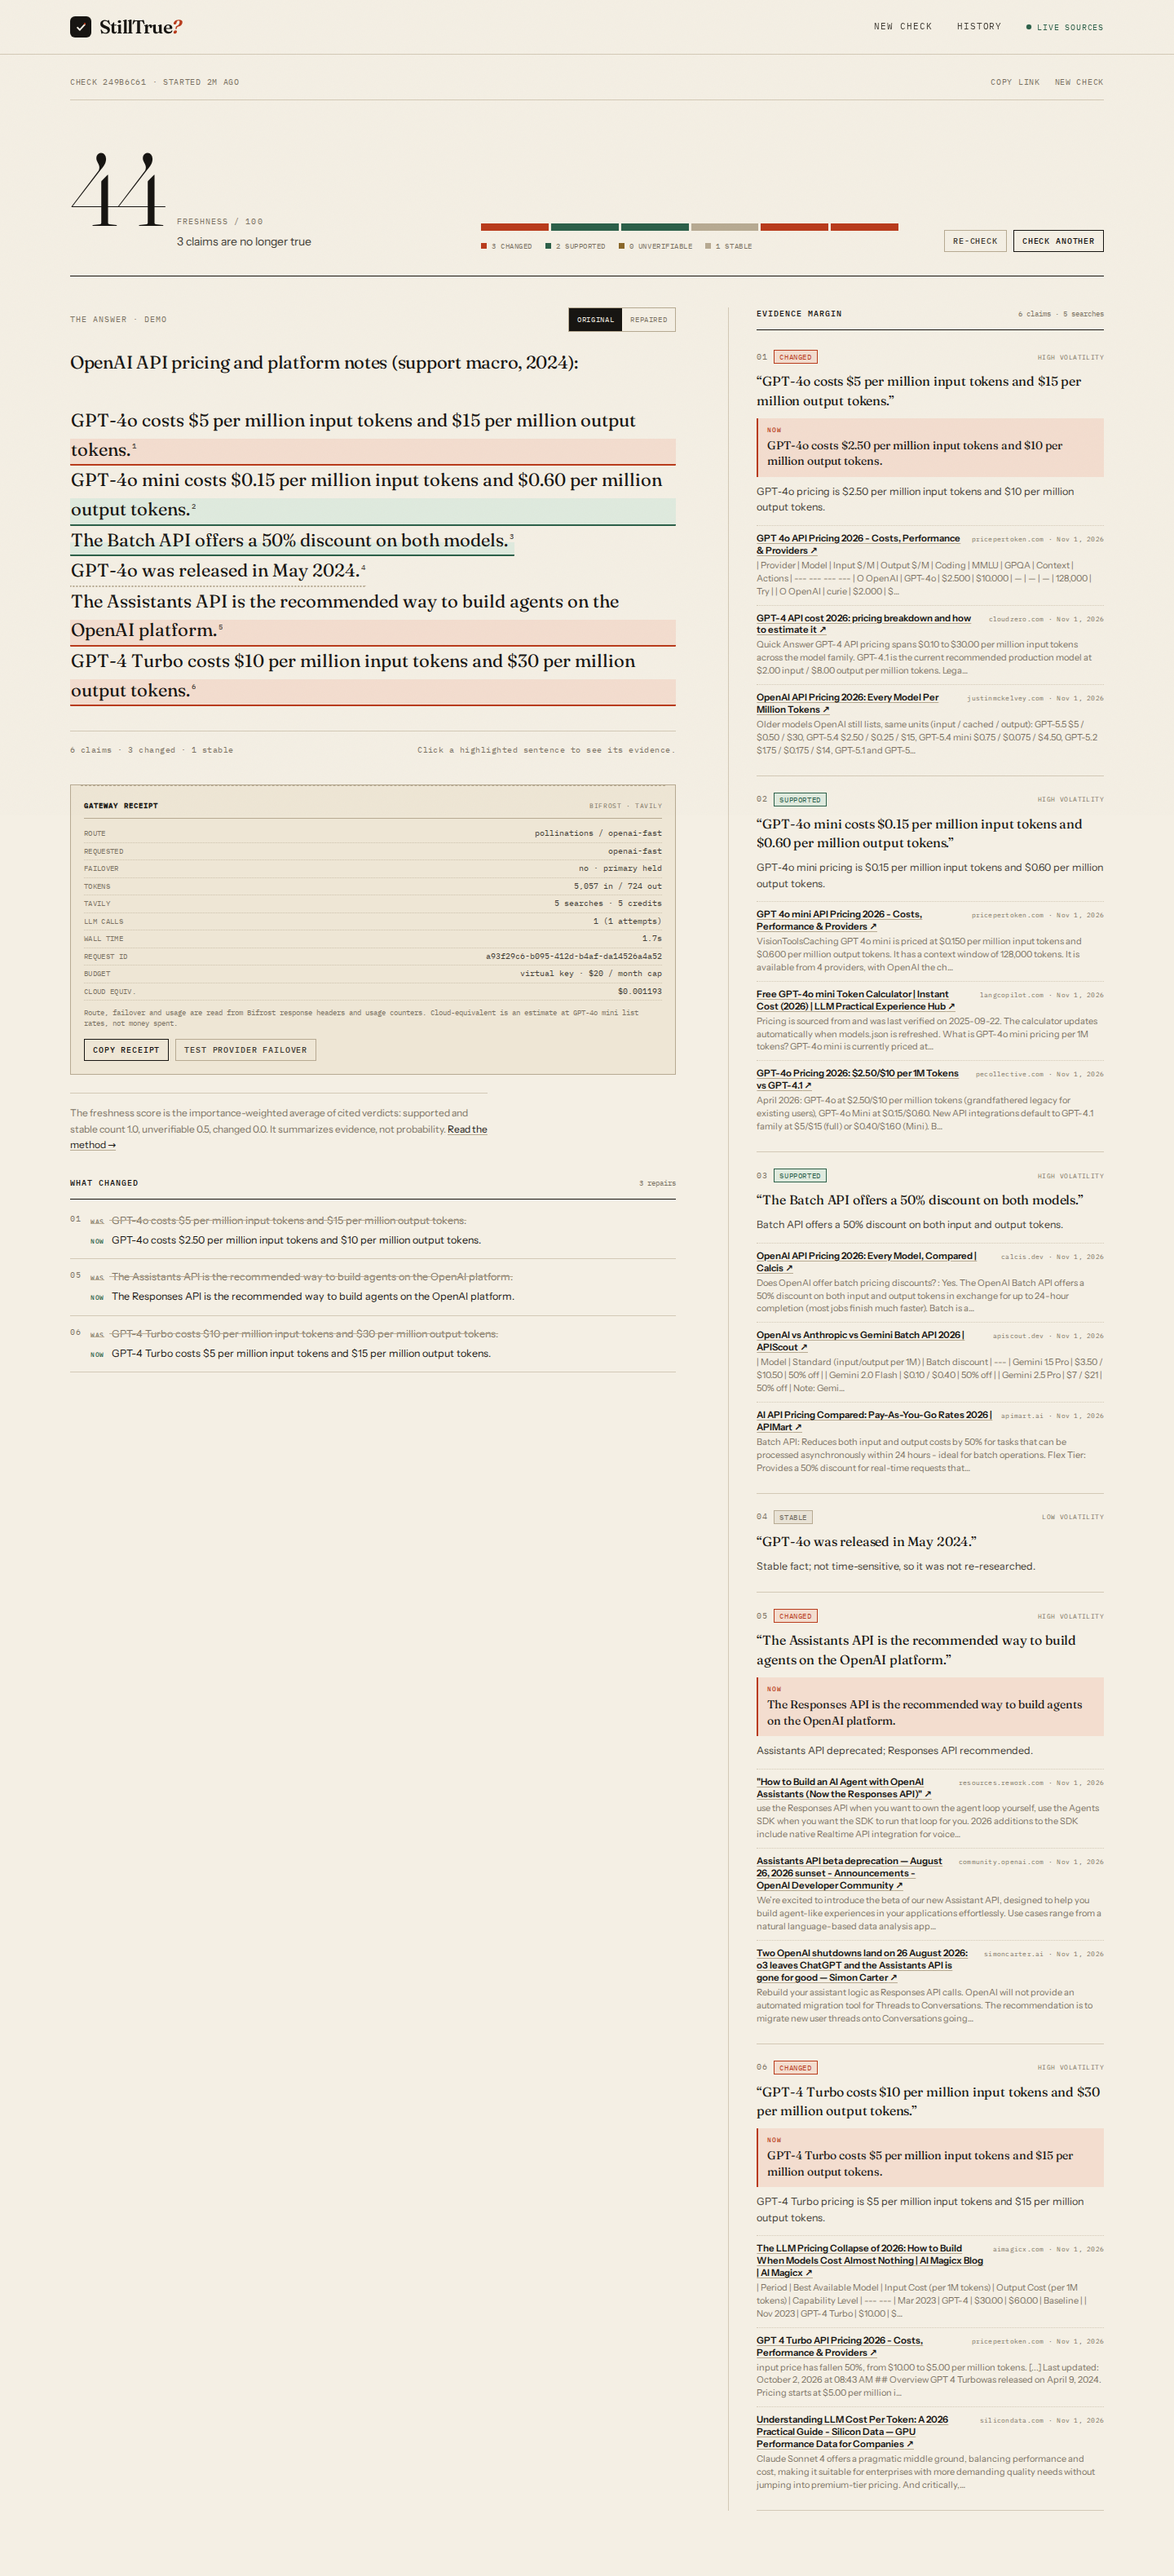
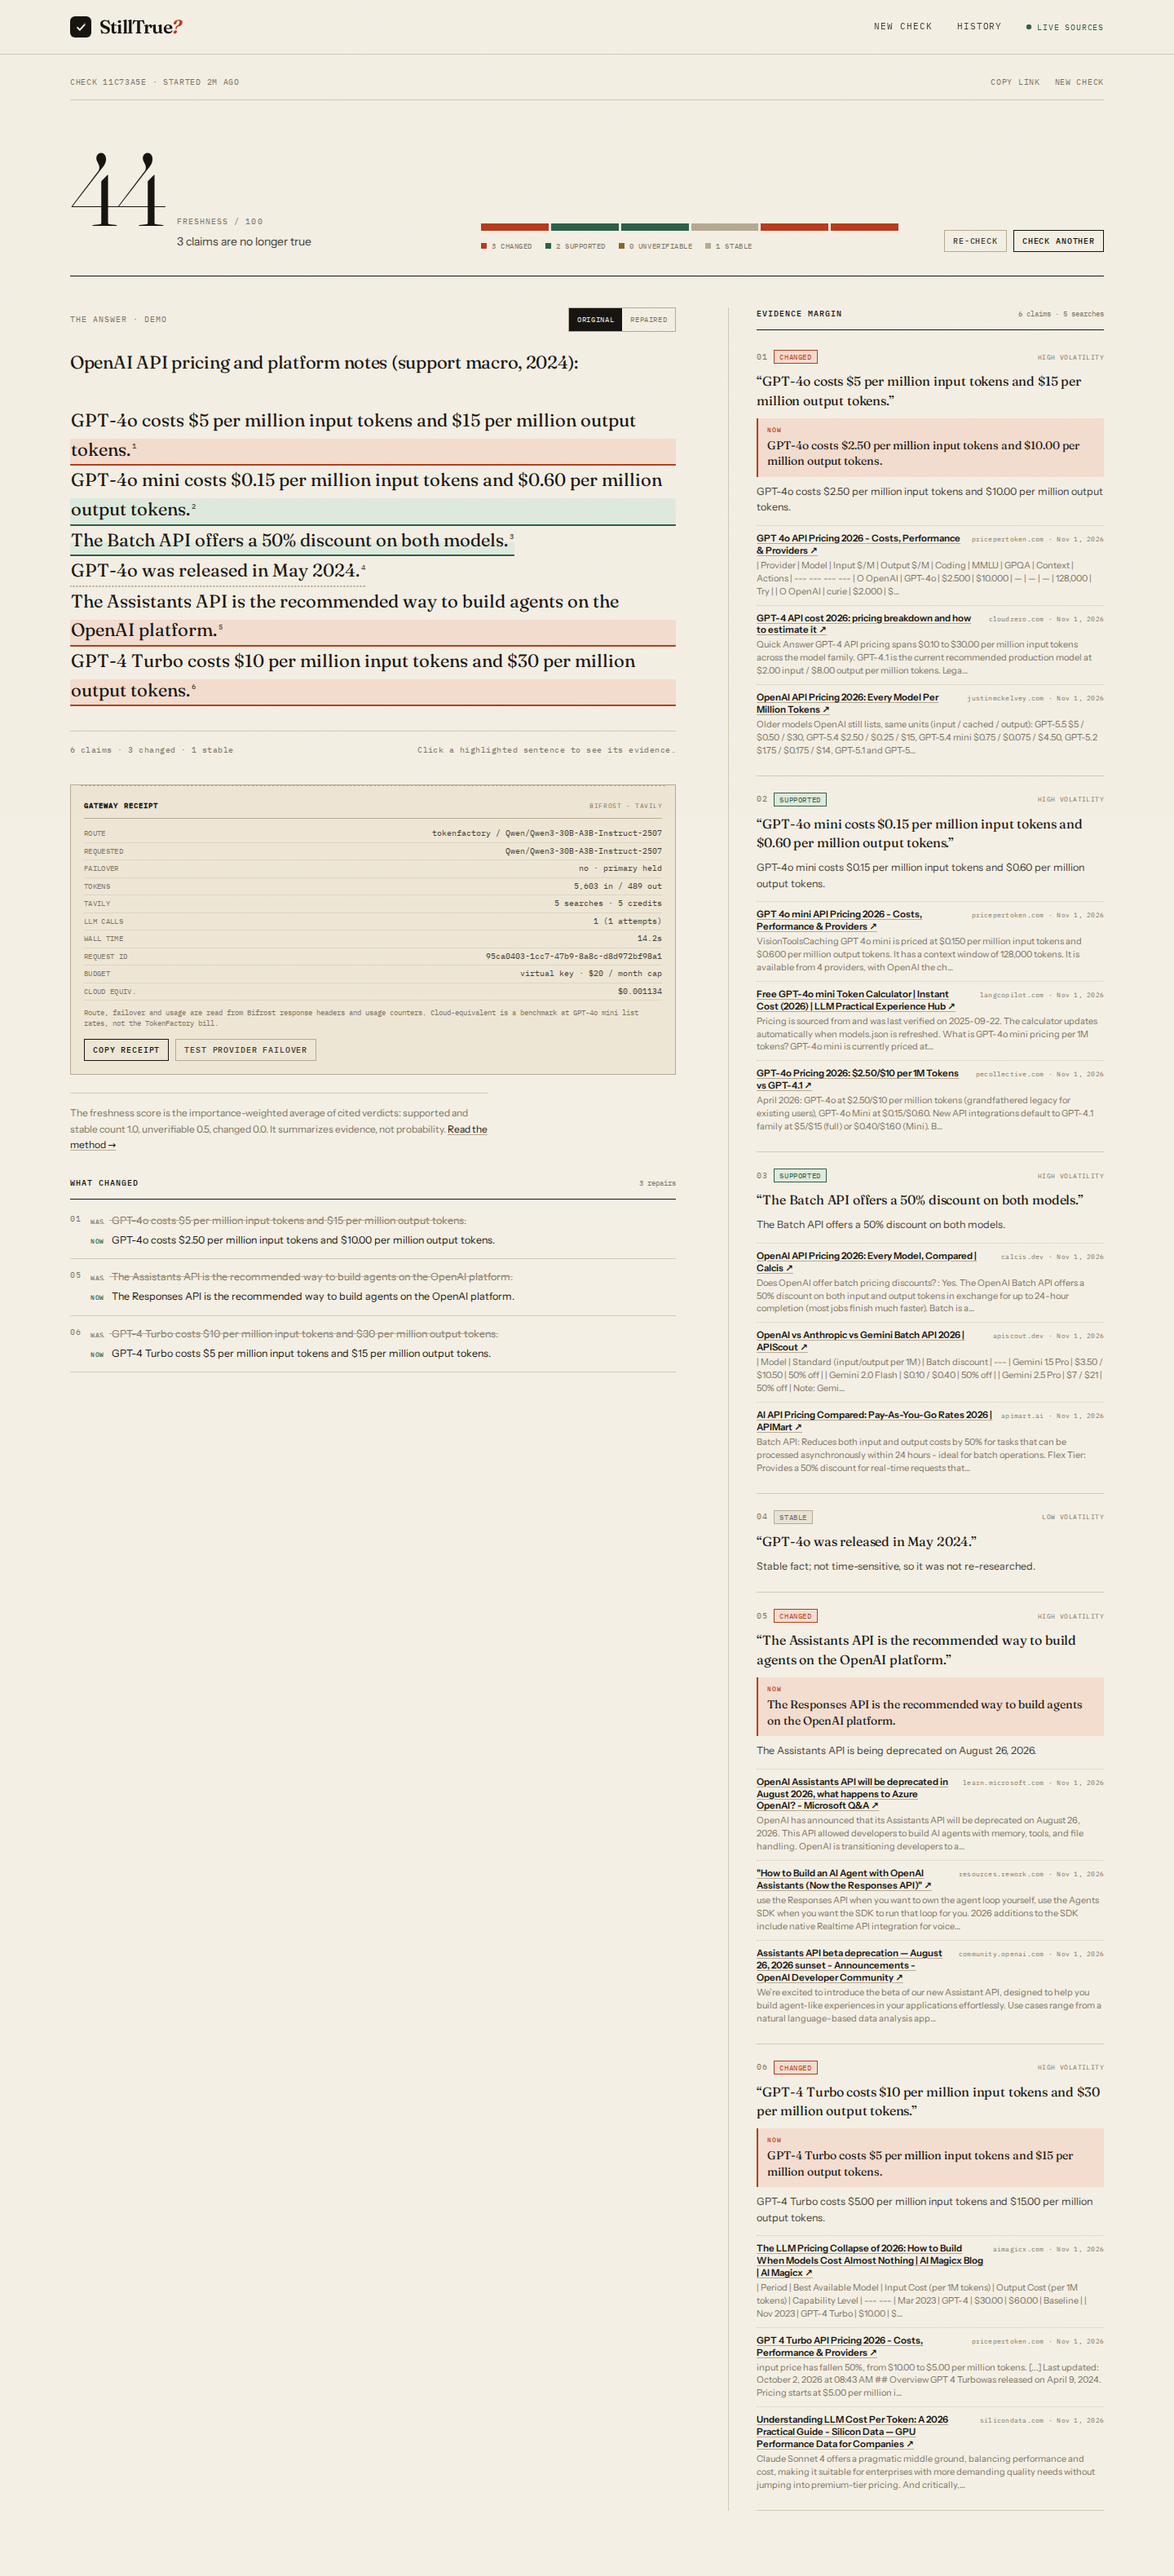
Switch primary model route to TokenFactory (Nebius)

Changed region(s): [[0.625, 0.6825, 0.9375, 0.8066], [0.6562, 0.1861, 0.6875, 0.2172]]

diff --git a/web/app/method/page.tsx b/web/app/method/page.tsx
@@ -130,10 +130,10 @@ export default function MethodPage() {
         <p className="method-prose">
           A check accepts up to 12,000 characters and verifies at most six
           claims, four sources each. These caps keep a check under a minute and
-          keep Tavily credit use predictable. The demo deployment uses a
-          free model route; the architecture is provider-agnostic and a
-          production deployment can point the same Bifrost virtual key at a
-          frontier model. The scoring weights are explicit: supported and
+          keep Tavily credit use predictable. The demo deployment uses
+          TokenFactory (Nebius) with a metered key; Pollinations remains a free
+          fallback. The architecture is provider-agnostic and a production
+          deployment can point the same Bifrost virtual key at a frontier model. The scoring weights are explicit: supported and
           stable count 1.0, unverifiable 0.5, changed 0.0, weighted by claim
           importance. The score is a summary of cited verdicts, not a
           probability.

diff --git a/web/components/ProofReceipt.tsx b/web/components/ProofReceipt.tsx
@@ -116,8 +116,8 @@ export function ProofReceipt({
         </div>
         <p className="receipt-note">
           Route, failover and usage are read from Bifrost response headers and
-          usage counters. Cloud-equivalent is an estimate at GPT-4o mini list
-          rates, not money spent.
+          usage counters. Cloud-equivalent is a benchmark at GPT-4o mini list
+          rates, not the TokenFactory bill.
         </p>
         <div className="receipt-actions">
           <button className="btn btn--small" onClick={copy} type="button">

diff --git a/README.md b/README.md
@@ -149,9 +149,10 @@ Rust API (Axum / Tokio / SQLx)
           │
           ▼
    Bifrost gateway (:8081)
-   ├── pollinations / openai-fast   (primary, free demo route)
-   ├── ollama-local / qwen2.5:3b    (optional local fallback)
-   └── outage-lab / chat            (deliberate 503, drill only)
+   ├── tokenfactory / Qwen3-30B      (primary, metered)
+   ├── pollinations / openai-fast    (free fallback route)
+   ├── ollama-local / qwen2.5:3b     (optional local fallback)
+   └── outage-lab / chat             (deliberate 503, drill only)
 ```
 
 | Layer | Choice | Why |
@@ -160,7 +161,7 @@ Rust API (Axum / Tokio / SQLx)
 | Backend | Rust, Axum, Tokio, SQLx, SQLite | Strong typing, explicit validation, deterministic scoring and repair, low operational overhead |
 | Gateway | Bifrost (Docker) | Provider routing, virtual-key budget, fallback, request-level headers |
 | Search | Tavily | Live sources with snippets and retrieval metadata |
-| Model | Any Bifrost-supported provider | The demo uses a free OpenAI-compatible route; swap `BIFROST_MODEL` for a frontier model without changing product code |
+| Model | Any Bifrost-supported provider | The demo uses TokenFactory (Nebius) Qwen3-30B as primary and Pollinations as a free fallback; swap `BIFROST_MODEL` without changing product code |
 
 The API persists each check as a single row with JSON columns for claims and proof. This keeps the shareable check self-contained and makes the receipt reproducible. The schema is in `crates/api/src/db.rs`.
 
@@ -179,7 +180,7 @@ The API persists each check as a single row with JSON columns for claims and pro
 | Corrected answer | **Deterministic patch** | Only changed quotes are replaced; see `build_correction` |
 | Freshness score | **Deterministic** | Weighted formula in `models.rs` |
 | Seeded demo answer | **Real text, written for the demo** | The verification itself is live; the answer is a fixed 2024 support macro |
-| Cloud-equivalent cost | **Estimate** | GPT-4o mini list rates; labeled as an estimate, not money spent |
+| Cloud-equivalent cost | **Estimate** | GPT-4o mini list rates; labeled as an estimate, not the TokenFactory bill |
 | Ollama fallback | **Optional** | Only if the local model is running; otherwise the claim becomes unverifiable |
 | Auth / teams / billing | **Not implemented** | Share links are unguessable UUIDs; see Security |
 
@@ -220,10 +221,10 @@ Live sources change. The exact verdicts can change with them. That is the produc
 On any completed check, click **Test provider failover** in the receipt. The app creates a new check with `drill=true`, which asks Bifrost for `outage-lab/chat` with a fallback to the live route. Expected receipt:
 
 ```text
-route      pollinations / openai-fast
+route      tokenfactory / Qwen/Qwen3-30B-A3B-Instruct-2507
 requested  chat
 failover   yes · hop 1
-reason     Gateway failed over from outage-lab to pollinations.
+reason     Gateway failed over from outage-lab/chat to tokenfactory/Qwen/Qwen3-30B-A3B-Instruct-2507.
 drill      forced primary outage
 ```
 
@@ -249,6 +250,7 @@ A single-VM deployment guide with Caddy, TLS, private Bifrost, and SSE-safe prox
 - Node 22+ and pnpm 11+
 - Docker
 - A Tavily API key ([tavily.com](https://tavily.com))
+- A Nebius Token Factory key ([tokenfactory.nebius.com](https://tokenfactory.nebius.com))
 
 ### Environment
 
@@ -260,10 +262,11 @@ Copy `.env.example` to `.env`:
 | `DATABASE_URL` | `sqlite://./data/stilltrue.db?mode=rwc` | SQLite path |
 | `BIFROST_URL` | `http://localhost:8081` | Gateway base URL |
 | `BIFROST_VK` | `sk-bf-stilltrue-dev` | Bifrost virtual key (dev value in `infra/bifrost/config.json`) |
-| `BIFROST_MODEL` | `pollinations/openai-fast` | Primary model route |
-| `BIFROST_FALLBACK` | `ollama-local/qwen2.5:3b-instruct` | Application-level takeover model |
+| `BIFROST_MODEL` | `tokenfactory/Qwen/Qwen3-30B-A3B-Instruct-2507` | Primary model route |
+| `BIFROST_FALLBACK` | `pollinations/openai-fast` | Application-level takeover model |
 | `BIFROST_DRILL_MODEL` | `outage-lab/chat` | Deliberate 503 route for the drill |
 | `TAVILY_API_KEY` | — | Required for live verification |
+| `TOKENFACTORY_API_KEY` | — | Nebius Token Factory key, passed to the Bifrost container only |
 | `MAX_CLAIMS` | `6` | Claim cap per check |
 | `TAVILY_MAX_RESULTS` | `4` | Sources per claim |
 | `EXTRACTION_MODE` | `heuristic` | `heuristic` (default) or `llm` |
@@ -273,6 +276,7 @@ Copy `.env.example` to `.env`:
 
 ```bash
 export TAVILY_API_KEY=tvly-...
+export TOKENFACTORY_API_KEY=tf-...
 docker compose up --build
 # web:    http://localhost:3100
 # api:    http://localhost:8788
@@ -290,11 +294,14 @@ docker exec stilltrue-ollama ollama pull qwen2.5:3b-instruct
 
 `infra/bifrost/config.json` declares:
 
-- a `pollinations` custom OpenAI-compatible provider (free demo route)
+- a `tokenfactory` custom OpenAI-compatible provider (primary, Nebius Token Factory)
+- a `pollinations` custom OpenAI-compatible provider (free fallback route)
 - an `ollama-local` custom OpenAI-compatible provider (optional fallback)
 - an `outage-lab` provider pointed at a 503 endpoint (drill only)
 - a virtual key with a **$20/month** budget and an explicit model allow-list
 - SQLite config storage
+
+The TokenFactory key is referenced as `env.TOKENFACTORY_API_KEY`; Docker Compose passes it from `.env`. If you run Bifrost with `docker run`, add `-e TOKENFACTORY_API_KEY=...`. The key is never written into the repository.
 
 The virtual key value is a local development key. Rotate it before exposing the gateway. Bifrost's dashboard is available at `http://localhost:8081`; it is not password-protected by default. Do not expose it publicly without setting `BIFROST_SETUP_TOKEN` and an admin password.
 
@@ -353,7 +360,7 @@ What is not covered by automated tests:
 
 - **Six claims is a product decision.** It keeps a check under a minute and Tavily credit use predictable. A long document is reduced to the most decision-relevant claims, not exhaustively audited.
 - **Deterministic extraction can miss a claim.** It is conservative by design and the UI shows exactly what was selected. An optional `EXTRACTION_MODE=llm` path exists, but the default avoids a second rate-limited model call and keeps the selection auditable.
-- **The demo model route is free and rate-limited.** Pollinations allows one new reply every 45 seconds per IP. The app retries and can take over with a local Ollama model. A production deployment should use a paid provider behind the same Bifrost virtual key.
+- **The primary demo route is metered.** TokenFactory (Nebius) is the primary route; the free Pollinations fallback allows one new reply every 45 seconds per IP. The app retries and can take over with a local Ollama model. TokenFactory billing is separate from the receipt's cloud-equivalent estimate.
 - **Evidence can be wrong.** A source can be stale, SEO-spam, or malicious. StillTrue surfaces the source, the quote, and the retrieval time; it does not declare the source infallible.
 - **No watch mode yet.** Re-checking is manual (`Re-check` on a completed check). Scheduled re-verification is the obvious retention loop and the next build.
 - **English-centric heuristics.** The segmenter’s instruction and volatility markers are English. Other languages need their own marker sets.

diff --git a/docs/demo-script.md b/docs/demo-script.md
@@ -10,7 +10,7 @@ Target length: **2:40–3:00**. Record at 1440×900, browser zoom 100%, bookmark
 4. Have the failover check ready in a third tab (run it once before recording).
 5. Close other tabs, notifications, and terminals with secrets.
 
-If the free model route is rate-limited during recording, use the pre-run check and say: “The check is live; this is the completed evidence room from a run a moment ago.” Do not fake a result.
+If the primary model route is unavailable during recording, use the pre-run check and say: “The check is live; this is the completed evidence room from a run a moment ago.” Do not fake a result.
 
 ## Scene 1 — The hook (0:00–0:20)
 
@@ -71,7 +71,7 @@ If the free model route is rate-limited during recording, use the pre-run check 
 ```text
 requested  chat
 failover   yes · hop 1
-reason     Gateway failed over from outage-lab to pollinations.
+reason     Gateway failed over from outage-lab/chat to tokenfactory/Qwen/Qwen3-30B-A3B-Instruct-2507.
 drill      forced primary outage
 ```
 
@@ -96,7 +96,7 @@ Show `http://localhost:3100/method` and the architecture diagram:
 ## Fallback lines
 
 - If Tavily is slow: “The check is waiting on live sources; this is the honest failure mode. If a source is missing, the claim becomes unverifiable, not green.”
-- If the model route is rate-limited: “The free demo route allows one new reply every 45 seconds. The gateway retries, and the product can take over with a local model. A production deployment uses a paid provider behind the same key.”
+- If the primary model route is unavailable: “The gateway failed over, or the claim became unverifiable. The free Pollinations fallback allows one new reply every 45 seconds; a production deployment keeps a paid provider behind the same key.”
 - If a verdict looks wrong: “The evidence is on screen. The product’s job is to make the claim auditable, not to be infallible.”
 
 ## Do not

diff --git a/SUBMISSION.md b/SUBMISSION.md
@@ -60,7 +60,7 @@ StillTrue treats freshness as a property of **claims**, not answers.
 | Source URLs, snippets, retrieval dates | Real |
 | Bifrost routing and virtual-key budget | Real |
 | Bifrost failover | Real (forced 503 drill, gateway headers) |
-| LLM adjudication | Real (one call per check in the default mode) |
+| LLM adjudication | Real (one call per check in the default mode, TokenFactory Qwen3-30B) |
 | Claim segmentation | Deterministic Rust |
 | Corrected answer | Deterministic patch |
 | Freshness score | Deterministic formula |
@@ -106,7 +106,7 @@ StillTrue treats freshness as a property of **claims**, not answers.
 
 - Six-claim cap; long documents are reduced to the most decision-relevant claims.
 - Deterministic extraction can miss a claim; the UI shows exactly what was selected.
-- The free demo model route is rate-limited; production should use a paid provider behind the same Bifrost key.
+- The primary demo route is TokenFactory (Nebius) with a metered key; the free Pollinations fallback is rate-limited. Production should keep a paid provider behind the same Bifrost key.
 - Evidence can be wrong or malicious; the product surfaces sources, not certainty.
 - No scheduled watch mode, auth, or team isolation in this build.
 

diff --git a/docs/deploy.md b/docs/deploy.md
@@ -26,6 +26,7 @@ Set at least:
 
 ```dotenv
 TAVILY_API_KEY=tvly-...
+TOKENFACTORY_API_KEY=tf-...
 DOMAIN=stilltrue.example.com
 WEB_ORIGIN=https://stilltrue.example.com
 ```
@@ -64,7 +65,7 @@ Then run the seeded demo in a browser and the failover drill from the receipt. T
 ```text
 requested  chat
 failover   yes · hop 1
-reason     Gateway failed over from outage-lab to pollinations.
+reason     Gateway failed over from outage-lab/chat to tokenfactory/Qwen/Qwen3-30B-A3B-Instruct-2507.
 drill      forced primary outage
 ```
 
@@ -105,7 +106,7 @@ location /api/ {
 
 ## Production checklist
 
-- [ ] `TAVILY_API_KEY` set, never committed
+- [ ] `TAVILY_API_KEY` and `TOKENFACTORY_API_KEY` set, never committed
 - [ ] Bifrost private, admin password set, dev virtual key rotated
 - [ ] `WEB_ORIGIN` matches the public web origin
 - [ ] `NEXT_PUBLIC_API_BASE` empty for same-origin deployment
